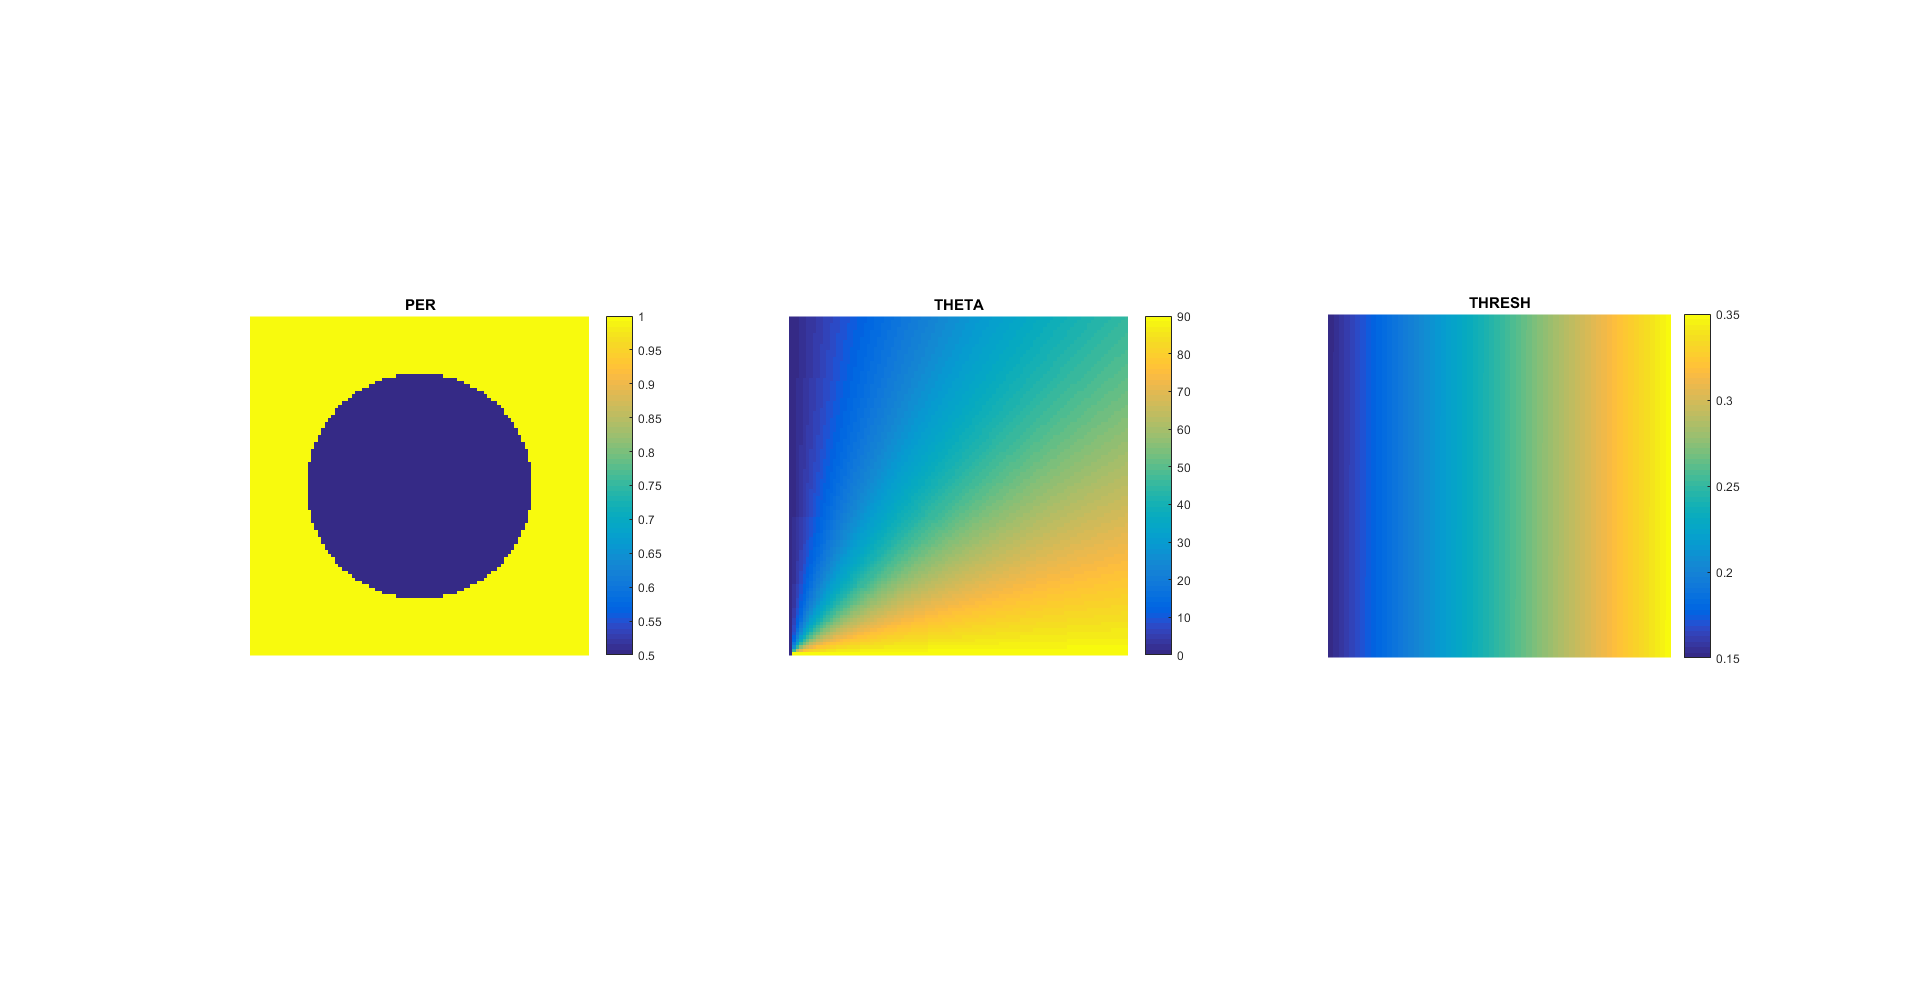
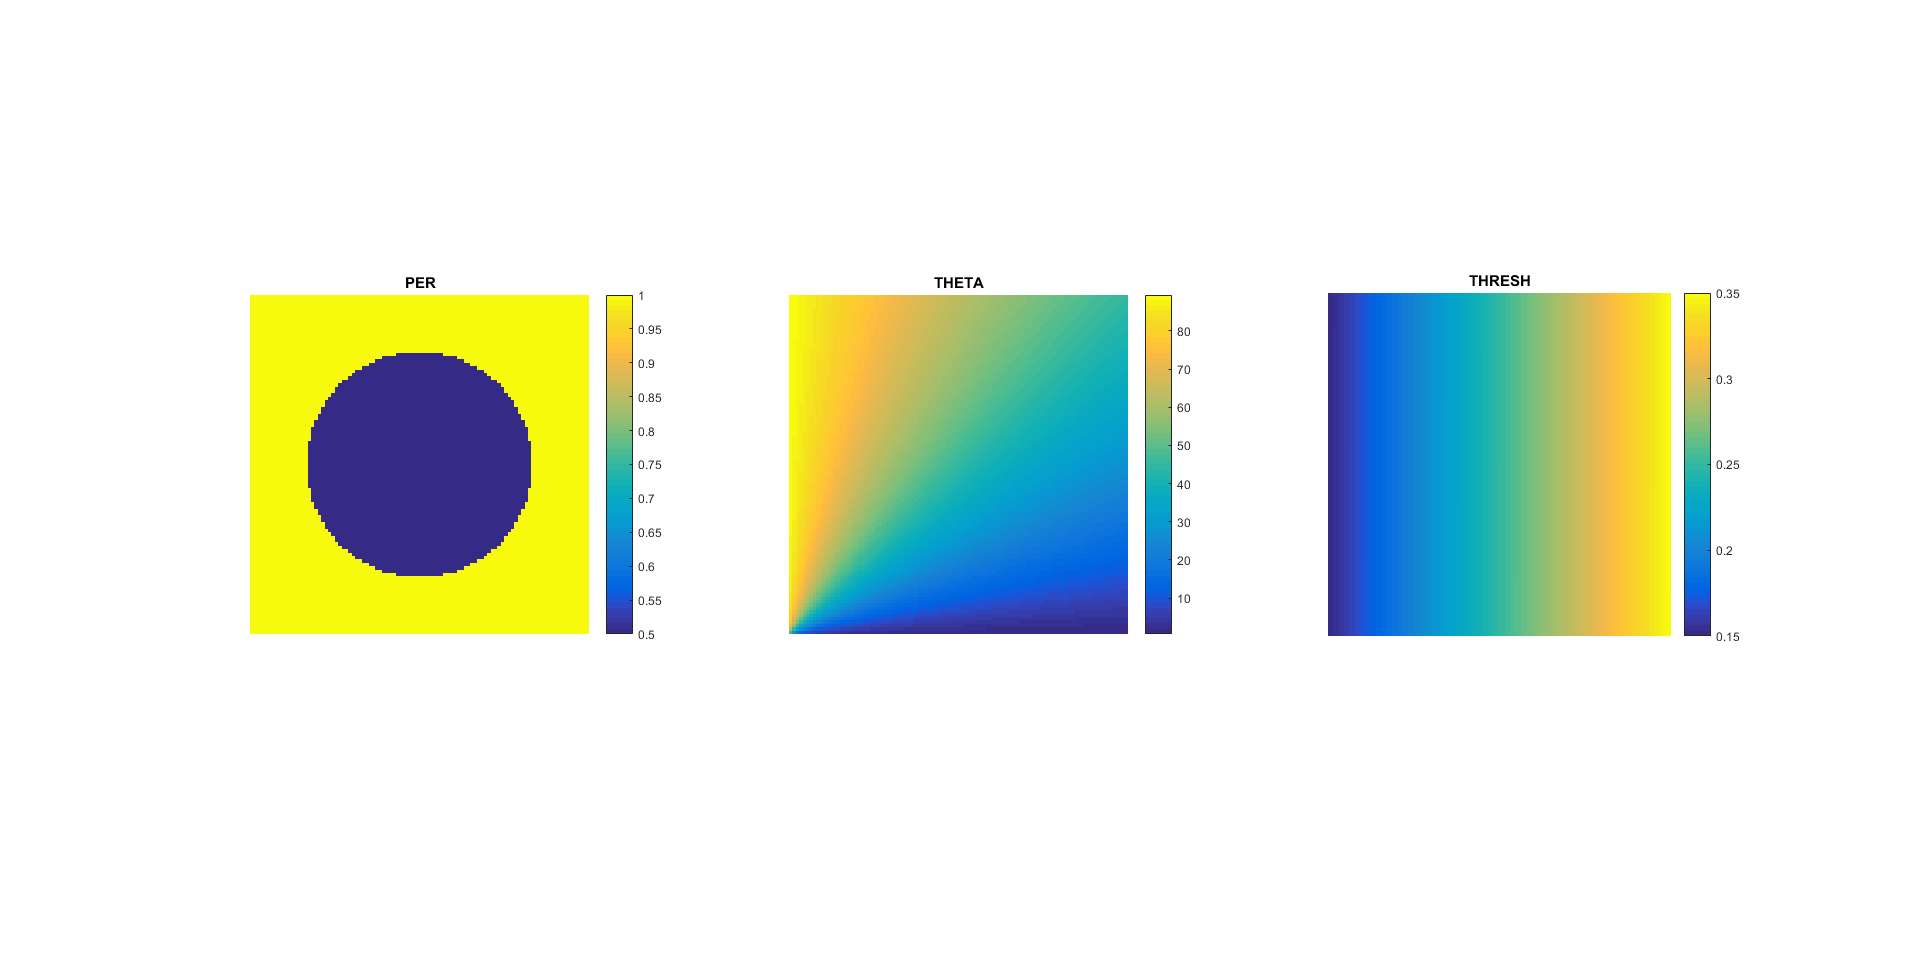
Lotsa changes

diff --git a/HW9.m b/HW9.m
@@ -15,7 +15,7 @@ clear all;
 degrees = pi/180;
 
 % OPEN FIGURE WINDOW WITH WHITE BACKGROUND
-fig = figure('Color','w','Units','normalized','Position',[0 0 1 1]);
+fig = figure('Color','w');
 
 %%%%%%%%%%%%%%%%%%%%%%%%%%%%%%%%%%%%%%%%%%%%%%%%%%%%%%%%%%%%%%%%%%%%%%%%%%%
 %% DASHBOARD
@@ -81,6 +81,7 @@ UC = min(D1,D2);
 UC = min(UC,D3);
 UC = UC - min(UC(:));
 UC = UC / max(UC(:));
+UC = 1 - UC;
 
 % DISPLAY UNIT CELL
 ha = imagesc(xah,yah,UC');
@@ -152,12 +153,11 @@ PER = RSQ <= r^2;
 PER = a*(1-PER) + 0.5*a*PER;
 
 % ANGLE
-x = [0 : Nx-1]*dx;
-y = [0 : Ny-1]*dy;
+x = [1 : Nx]*dx;
+y = [1 : Ny]*dy;
 [Yy,Xx] = meshgrid(y,x);
-THETA = atan2(Xx,Yy);
-THETA = flipud(fliplr(flipud(THETA)));
-THETA = THETA/degrees;
+THETA = atan2(Yy,Xx);
+% THETA = fliplr(THETA/degrees);
 
 % THRESHOLD
 thresh = linspace(0.15,0.35,Nx2*Ny2)';
@@ -167,7 +167,7 @@ THRESH = reshape(THRESH,Nx2,Ny2);
 THRESH = THRESH';
 
 % VISUALIZE
-figure('Color','w','Units','normalized','Position',[0 0 1 1]);
+figure('Color','w');
 subplot(131);
 imagesc(xa,ya,PER');
 colorbar;
@@ -185,16 +185,6 @@ imagesc(xa2,ya2,THRESH');
 colorbar;
 axis equal tight off
 title('THRESH');
-
-gth_dat = linspace(0,1,100);
-ff_dat  = 0*gth_dat;
-for n = 1 : length(gth_dat)
-   % GENERATE BINARY UNIT CELL
-   UCB = UC > gth_dat(n);
-   
-   % FILL FRACTION
-   ff_dat(n) = sum(UCB(:))/(Nxu*Nyu);
-end
 
 %%%%%%%%%%%%%%%%%%%%%%%%%%%%%%%%%%%%%%%%%%%%%%%%%%%%%%%%%%%%%%%%%%%%%%%%%%%
 %% PROBLEM #4: GENERATE LIST OF PLANAR GRATINGS
@@ -226,7 +216,7 @@ KY = 2*pi*qa/a;
 [KY,KX] = meshgrid(KY,KX);
 
 % DISPLAY TRUNCATED UNIT CELL
-figure('Color','w','Units','normalized','Position',[0 0 1 1]);
+figure('Color','w');
 imagesc(pa,qa,abs(ERF)');
 colorbar;
 hold on;
@@ -240,13 +230,108 @@ title('PLANAR GRATING EXPANSION');
 %%%%%%%%%%%%%%%%%%%%%%%%%%%%%%%%%%%%%%%%%%%%%%%%%%%%%%%%%%%%%%%%%%%%%%%%%%%
 
 % DEFINE SWITCH VARIABLES
-LATTICE = 1;
+LATTICE = 5;
 
 % DEFINE INPUTS
 switch LATTICE
     % Lattice 1: Uniform Lattice
     case 1
-        PER     = a*ones(Nx2,Ny2);
-        THETA   = 0*degrees*ones(Nx2,Ny2);
-        THRESH  = 0.3*ones(Nx2,Ny2);     
+        PER     = a*ones(Nx,Ny);
+        THETA   = 0*degrees*ones(Nx,Ny);
+        THRESH  = 0.3*ones(Nx2,Ny2); 
+    % Lattice 2: Spatially Variant Threshold
+    case 2
+        PER     = a*ones(Nx,Ny);
+        THETA   = 0*degrees*ones(Nx,Ny);
+        THRESH  = THRESH;
+    % Lattice 3: Spatially Variant Period
+    case 3
+        PER     = PER;
+        THETA   = 0*degrees*ones(Nx,Ny);
+        THRESH  = 0.3*ones(Nx2,Ny2);
+    % Lattice 4: Spatially Variant Orientation
+    case 4
+        PER     = a*ones(Nx,Ny);
+        THETA   = THETA;
+        THRESH  = 0.3*ones(Nx2,Ny2);
+    % Lattice 5: Spatially Vary Everything
+    case 5
+        PER     = PER;
+        THETA   = THETA;
+        THRESH  = THRESH;
+    otherwise
+        error('Please enter a lattice 1-5');
 end
+
+% GENERATE LIST OF PLANAR GRATINGS
+KLIST = [ KX(:)' ; KY(:)' ];
+CLIST = ERF(:);
+
+% INITIALIZE COUNTER AND SVL ARRAY
+NK  = length(CLIST);
+SVL = zeros(Nx2,Ny2);
+
+% CONSTRUCT DERIVATIVE OPERATORS
+NS  = [Nx Ny];
+RES = [dx dy];
+BC  = [+1 +1];
+[DX,~,DY,~] =  fdder(NS,RES,BC);
+A = [DX ; DY];
+    
+%
+% MAIN LOOP
+%
+for nk = 1 : NK
+   
+    % GENERATE K-FUNCTION
+    Kx = KLIST(1,nk);
+    Ky = KLIST(2,nk);
+    [theta,r] = cart2pol(Kx,Ky);
+    [Kx,Ky] = pol2cart(theta+THETA,r*a./PER);
+    
+    % CONSTRUCT MATRIX EQUATION
+    b = [Kx(:) ; Ky(:)];
+    
+    % SOLVE BY LEAST SQUARES
+    b   = A.'*b;
+    Ap  = A.'*A;
+    PHI = Ap\b;
+    
+    % RESHAPE TO 2D GRID
+    PHI = reshape(PHI,Nx,Ny);
+    
+    % INTERPOLATE TO HI-RES GRID
+    PHI = interp2(ya,xa',PHI,ya2,xa2');
+    
+    % CALCULATE ANALOG GRATING
+    Epq = CLIST(nk)*exp(1i*PHI);
+    
+    % ADD CURRENT GRATING TO OVERAL LATTICE
+    SVL = SVL + Epq;
+    
+end
+
+% CLEAN-UP NUMERICAL NOISE
+SVL = real(SVL);
+
+% CREATE BINARY LATTICE
+SVLB = SVL < THRESH;
+
+% DISPLAY ANALOG GRATING
+figure('Color','w');
+subplot(121);
+ha = imagesc(xa2,ya2,SVL');
+ha = get(ha,'Parent');
+set(ha,'YDir','normal');
+axis equal tight;
+colormap('Jet');
+colorbar;
+title('ANALOG LATTICE');
+
+subplot(122);
+ha = imagesc(xa2,ya2,SVLB');
+ha = get(ha,'Parent');
+set(ha,'YDir','normal');
+axis equal tight;
+colorbar;
+title('BINARY LATTICE');

diff --git a/fdder.m b/fdder.m
@@ -1,0 +1,179 @@
+function [DX,D2X,DY,D2Y] = fdder(NS,RES,BC)
+% FDDDER Finite-Difference Derivative Operators
+%
+% [DX,D2X,DY,D2Y] = fdder(NS,RES,BC);
+%
+% This MATLAB function generates matrix derivative operators
+% for scalar functions on a collocated grid.
+%
+% INPUT ARGUMENTS
+% ================
+% NS [Nx Ny] size of grid
+% RES [dx dy] grid resolution
+% BC [BCx BCy] Boundary Conditions
+% 0=Dirichlet, -1=Periodic, +1=Neumann
+%
+% OUTPUT ARGUMENTS
+% ================
+% DX First-order derivative with respect to x
+% D2X Second-order derivative with respect to x
+% DY First-order derivative with respect to y
+% D2Y Second-order derivative with respect to y
+
+% Misc. Housekeeping
+Nx  = NS(1);
+Ny  = NS(2);
+dx  = RES(1);
+dy  = RES(2);
+BCx = BC(1);
+BCy = BC(2);
+
+% Size of Matrices
+M = Nx*Ny;
+
+% Utility Matrix
+Z = sparse(M,M);
+O = ones(Nx,Ny);
+O = O(:);
+
+% Handle Special Cases
+if (Nx == 1)
+  DX  = Z;
+  D2X = Z;
+elseif (Nx ~= 1)
+  DX  = Z;
+  D2X = Z;
+  DX  = spdiags(-1*O,-1,DX);
+  DX  = spdiags(+1*O,+1,DX);
+  D2X = spdiags(O,-1,D2X);
+  D2X = spdiags(-2*O,0,D2X);
+  D2X = spdiags(O,+1,D2X);
+end 
+
+if (Ny == 1)
+  DY  = Z;
+  D2Y = Z;
+elseif (Ny ~= 1)
+  DY  = Z;
+  D2Y = Z;
+  DY  = spdiags(+1*O,Nx,DY);
+  DY  = spdiags(-1*O,-Nx,DY);
+  D2Y = spdiags(O,+Nx,D2Y);
+  D2Y = spdiags(O,-Nx,D2Y);
+  D2Y = spdiags(-2*O,0,D2Y);
+end
+
+%
+%% IMPLEMENT BOUNDARY CONDITIONS
+%
+
+%%%%%%%%%%%%%%%%%%%%%%%%%%%%%%%%%%%%%%%%%%%%%%%%%%%%%%%%%%%%%%%%%%%%%%%%%%%%%%%%
+%% Dirichlet
+%%%%%%%%%%%%%%%%%%%%%%%%%%%%%%%%%%%%%%%%%%%%%%%%%%%%%%%%%%%%%%%%%%%%%%%%%%%%%%%%
+
+% DIRICHLET ALONG X (DY and D2Y stay the same for Dirichlet)
+if(BCx == 0) 
+  for ny = 1 : Ny-1 
+    m = Nx + (ny-1)*Nx;
+    n = m + 1;
+    DX(m,n)   = 0;
+    DX(n,m)   = 0;
+    D2X(m,n)  = 0;
+    D2X(n,m)  = 0;
+  end 
+end 
+
+%%%%%%%%%%%%%%%%%%%%%%%%%%%%%%%%%%%%%%%%%%%%%%%%%%%%%%%%%%%%%%%%%%%%%%%%%%%%%%%%
+%% PERIODIC
+%%%%%%%%%%%%%%%%%%%%%%%%%%%%%%%%%%%%%%%%%%%%%%%%%%%%%%%%%%%%%%%%%%%%%%%%%%%%%%%%
+
+% PERIODIC ALONG X
+if (BCx == -1 && Nx ~= 1)
+  for ny = 1 : Ny
+    m = Nx + (ny-1)*Nx;
+    n = m - (Nx-1);
+    DX(m,n)   = 1;
+    DX(n,m)   = -1;
+    D2X(m,n)  = 1;
+    D2X(n,m)  = 1;
+  end 
+  for ny = 1 : Ny-1
+    m = Nx + (ny-1)*Nx;
+    n = m + 1;
+    DX(m,n)   = 0;
+    DX(n,m)   = 0;
+    D2X(m,n)  = 0;
+    D2X(n,m)  = 0;
+  end 
+end 
+
+% PERIODIC ALONG Y
+if(BCy == -1 && Ny ~= 1)
+  for nx = 1 : Nx 
+    m = Nx*Ny - (nx-1);
+    n = Nx - (nx-1);
+    DY(m,n)   = 1;
+    DY(n,m)   = -1;
+    D2Y(m,n)  = 1;
+    D2Y(n,m)  = 1;
+  end 
+end 
+
+%%%%%%%%%%%%%%%%%%%%%%%%%%%%%%%%%%%%%%%%%%%%%%%%%%%%%%%%%%%%%%%%%%%%%%%%%%%%%%%%
+%% NEUMANN
+%%%%%%%%%%%%%%%%%%%%%%%%%%%%%%%%%%%%%%%%%%%%%%%%%%%%%%%%%%%%%%%%%%%%%%%%%%%%%%%%
+
+% NEUMANN ALONG X
+if(BCx == +1 && Nx ~= 1) 
+  m = 1;
+  n = 1;
+  for ny = 1 : Ny 
+    DX(m,n)     = -2;
+    DX(m,n+1)   = +2;
+    D2X(m,n)    = 0;
+    D2X(m,n+1)  = 0;
+    m           = Nx*ny;
+    n           = Nx*ny-1;
+    DX(m,n)     = -2;
+    DX(m,n+1)   = +2;
+    D2X(m,n)    = 0;
+    D2X(m,n+1)  = 0;
+    m           = m + 1;
+    n           = n + 2;
+  end 
+  
+  for ny = 1 : Ny-1
+    m         = Nx + (ny-1)*Nx;
+    n         = m + 1;
+    DX(m,n)   = 0;
+    DX(n,m)   = 0;
+    D2X(m,n)  = 0;
+    D2X(n,m)  = 0;
+  end 
+end 
+
+% NEUMANN ALONG Y
+if(BCy == +1 && Ny ~= 1)
+  for nx = 1 : Nx
+    m = nx;
+    n = Nx*Ny-nx+1;
+    o = m+Nx;
+    p = n-Nx;
+    DY(m,m)   = -2;
+    DY(n,n)   = +2;
+    DY(m,o)   = +2;
+    DY(n,p)   = -2;
+    D2Y(m,m)  = 0;
+    D2Y(n,n)  = 0;
+    D2Y(m,o)  = 0;
+    D2Y(n,p)  = 0;
+  end 
+end 
+
+% FINISH DERIVATIVE MATRICES
+DX  = DX/(2*dx);
+D2X = D2X/(dx^2);
+DY  = DY/(2*dy);
+D2Y = D2Y/(dy^2);
+
+end
